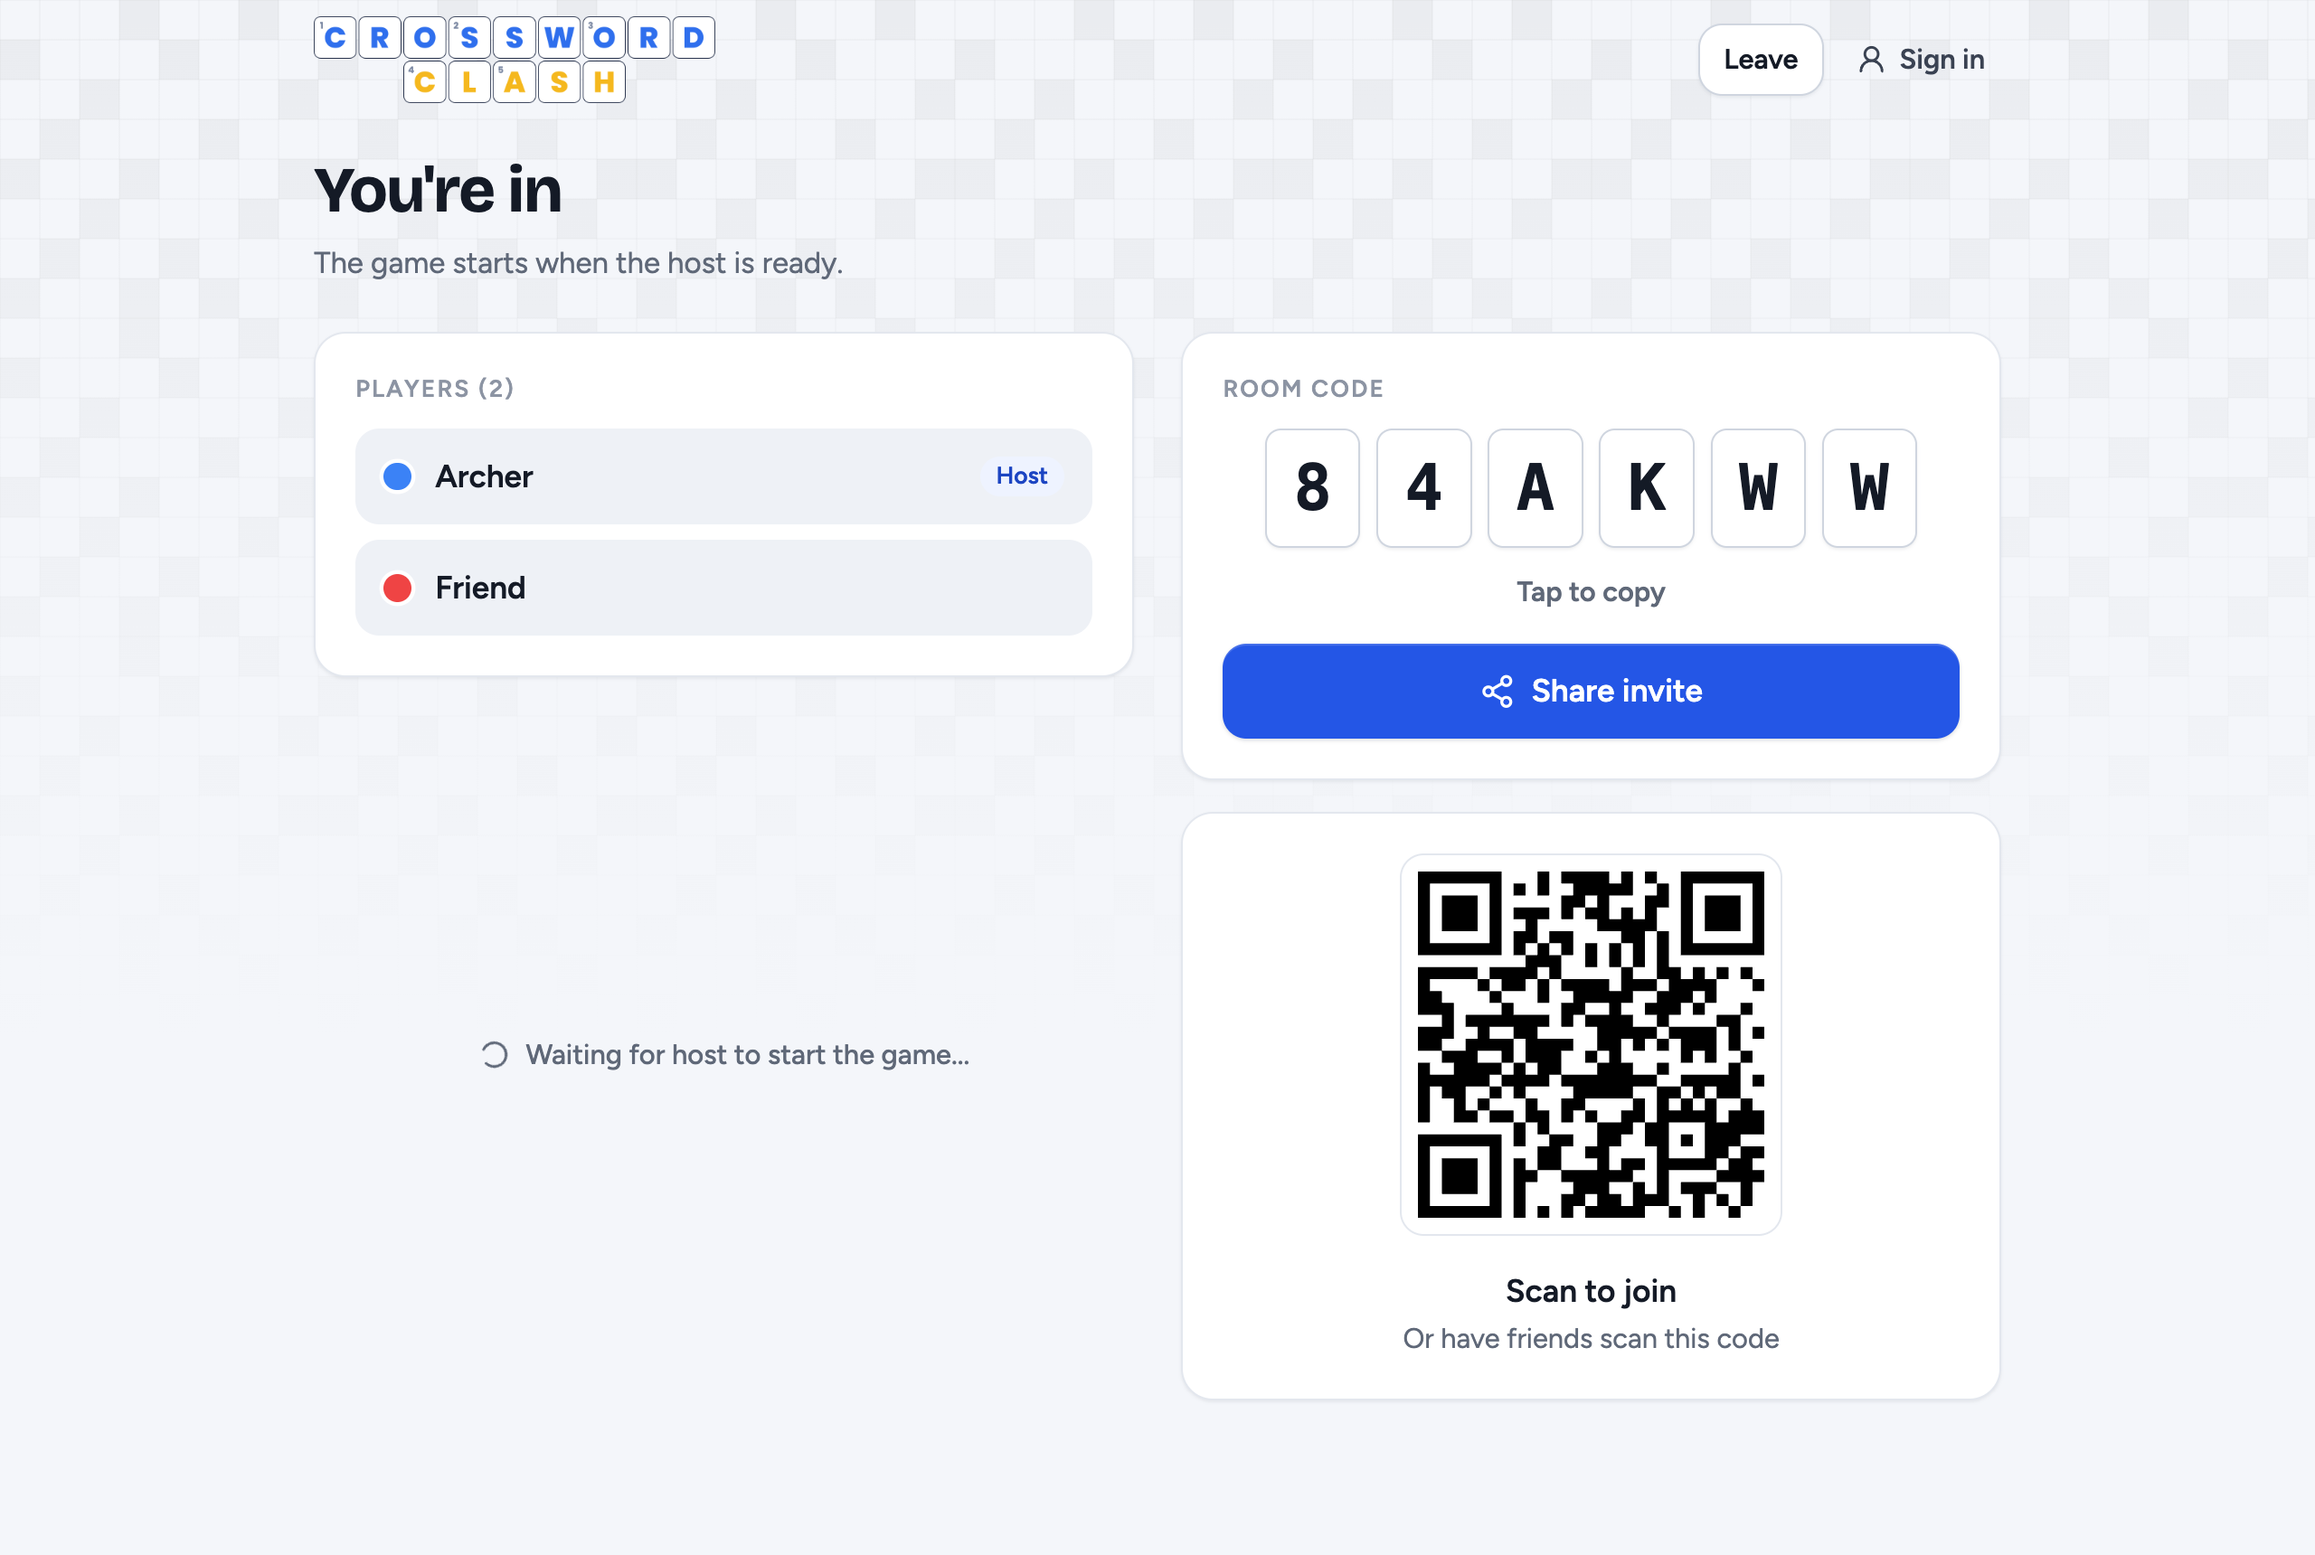
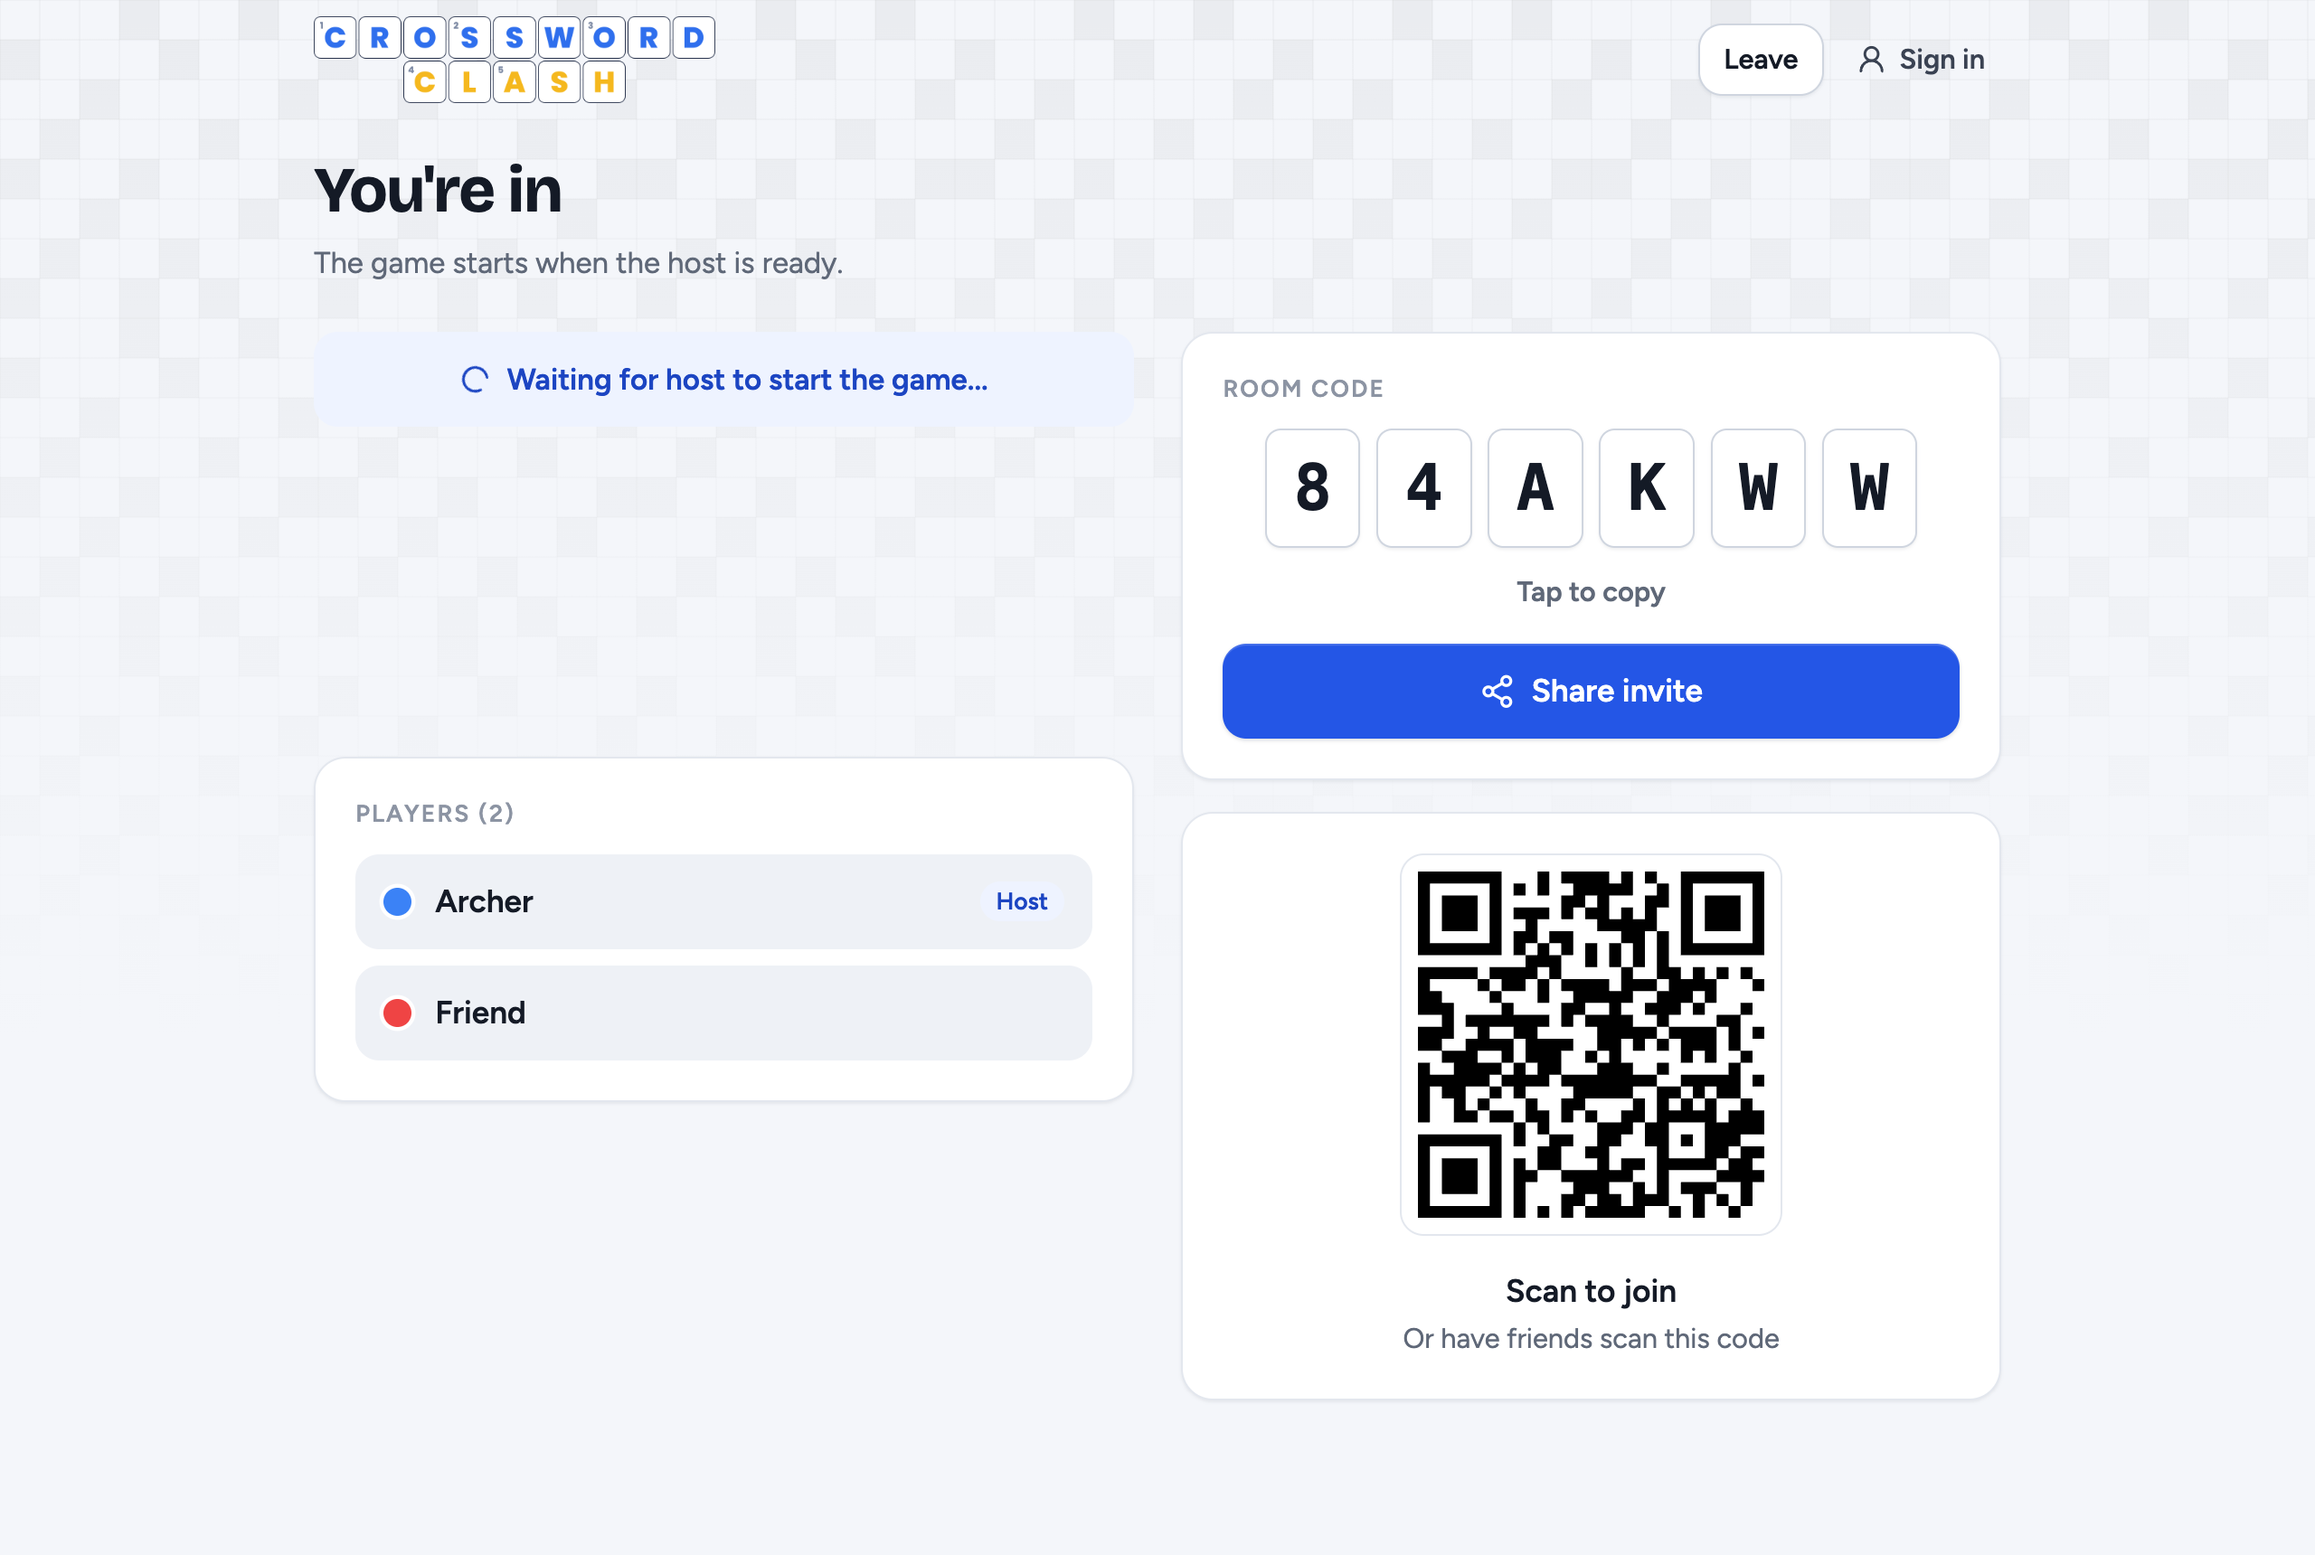
Lobby: Start or the waiting status leads, above the players
Andrew (2026-10-30): the "waiting for host" line is the most important
information on the page, and for the host the Start button belongs up
there too. Both now lead the lobby, right above the roster, and the sticky
bottom bar is gone — a joiner's status is a tinted banner, the host's
Start a full-width button. Order on a phone: Start / status, players, room
code + QR, settings. Desktop: the same in the left column, join column on
the right. Screenshots and CLAUDE.md updated; the DOM-order test covers
the new position for both host and joiner.

diff --git a/src/components/GameLobby/GameLobby.tsx b/src/components/GameLobby/GameLobby.tsx
@@ -78,9 +78,9 @@ export function GameLobby({ shareCode, players, isHost, onStartGame, onCloseRoom
     isHost &&
     ((raceMode !== undefined && onRaceModeChange) || (wrongAnswerTimeout !== undefined && onWrongAnswerTimeoutChange));
 
-  // DOM order is phone order: the roster leads, then how people get in, then
-  // the host's settings beside the Start button they gate. On desktop the
-  // join column moves to the right and spans the roster, settings and actions.
+  // DOM order is phone order: Start (host) or the waiting status (joiner), the
+  // roster, then how people get in, then the host's settings. On desktop the
+  // join column moves to the right and spans the left column's rows.
   const column = shareCode ? "lg:col-start-1" : "lg:col-span-2 lg:mx-auto lg:w-full lg:max-w-md";
   const joinRows = showSettings ? "lg:row-span-3" : "lg:row-span-2";
 
@@ -102,6 +102,24 @@ export function GameLobby({ shareCode, players, isHost, onStartGame, onCloseRoom
       subtitle={isHost ? t("lobby.shareInvite") : t("lobby.guestSubtitle")}
     >
       <div className="grid gap-4 lg:grid-cols-2 lg:items-start lg:gap-x-6">
+        {/* The most important line on the page leads (Andrew, 2026-10-30): the host's Start,
+            or a joiner's "waiting for the host" status. Right above the roster, never a bottom bar. */}
+        <div className={column}>
+          {isHost ? (
+            <Button size="lg" block onClick={onStartGame} disabled={needMore}>
+              {needMore ? t("lobby.needMorePlayers", { count: 2 - players.length }) : t("lobby.startGame")}
+            </Button>
+          ) : (
+            <p
+              role="status"
+              className="flex min-h-12 items-center justify-center gap-2 rounded-xl bg-brand-50 px-4 text-[15px] font-semibold text-brand-700"
+            >
+              <Loader2 className="size-4 animate-spin motion-reduce:animate-none" aria-hidden="true" />
+              {t("lobby.waitingForHost")}
+            </p>
+          )}
+        </div>
+
         {/* Who is here: first on the page, so a phone shows the roster above the fold. */}
         <section className={column}>
           <Card className="p-5">
@@ -194,7 +212,7 @@ export function GameLobby({ shareCode, players, isHost, onStartGame, onCloseRoom
           </section>
         )}
 
-        {/* The host's settings, right above the Start button they apply to. */}
+        {/* The host's settings, last: they are tweaked once, before Start. */}
         {showSettings && (
           <section className={column}>
             <Card className="p-5">
@@ -210,22 +228,6 @@ export function GameLobby({ shareCode, players, isHost, onStartGame, onCloseRoom
             </Card>
           </section>
         )}
-
-        {/* Actions: sticky to the bottom of the viewport on phones, inline on desktop. */}
-        <div
-          className={`sticky bottom-0 z-10 -mx-4 border-t border-line bg-canvas/90 px-4 pt-3 pb-[max(1rem,env(safe-area-inset-bottom))] backdrop-blur lg:static lg:border-0 lg:bg-transparent lg:p-0 lg:backdrop-blur-none ${shareCode ? "lg:mx-0" : ""} ${column}`}
-        >
-          {isHost ? (
-            <Button size="lg" block onClick={onStartGame} disabled={needMore}>
-              {needMore ? t("lobby.needMorePlayers", { count: 2 - players.length }) : t("lobby.startGame")}
-            </Button>
-          ) : (
-            <p className="flex min-h-12 items-center justify-center gap-2 text-sm font-medium text-muted" role="status">
-              <Loader2 className="size-4 animate-spin motion-reduce:animate-none" aria-hidden="true" />
-              {t("lobby.waitingForHost")}
-            </p>
-          )}
-        </div>
       </div>
     </FlowPage>
   );

diff --git a/src/components/GameLobby/GameLobby.test.tsx b/src/components/GameLobby/GameLobby.test.tsx
@@ -268,7 +268,7 @@ describe("GameLobby", () => {
       expect(screen.getByText("Host")).toBeDefined();
     });
 
-    it("lists the players before the room code, QR code and settings, so a phone shows the roster above the fold", () => {
+    it("leads with Start or the waiting status, then the players, then the room code, QR code and settings", () => {
       for (const isHost of [true, false]) {
         cleanup();
         render(
@@ -288,9 +288,12 @@ describe("GameLobby", () => {
         const follows = (node: Element) => Boolean(roster.compareDocumentPosition(node) & Node.DOCUMENT_POSITION_FOLLOWING);
         expect(follows(screen.getByText("Room code")), `room code after the roster (host: ${isHost})`).toBe(true);
         expect(follows(screen.getByTestId("qr-code")), `QR after the roster (host: ${isHost})`).toBe(true);
+        // The most important line leads: the host's Start, or a joiner's waiting status.
         if (isHost) {
           expect(follows(screen.getByText("Game settings")), "settings after the roster").toBe(true);
-          expect(follows(screen.getByText("Start Game")), "Start after the roster").toBe(true);
+          expect(follows(screen.getByText("Start Game")), "Start before the roster").toBe(false);
+        } else {
+          expect(follows(screen.getByRole("status")), "waiting status before the roster").toBe(false);
         }
       }
     });

diff --git a/CLAUDE.md b/CLAUDE.md
@@ -136,7 +136,7 @@ src/
     CrosswordGrid/  # Grid + Cell (container query font scaling) + keyboard nav + hidden mobile input
     ClueBar/        # MobileClueBar (prev/next word, direction toggle, active clue display)
     CluePanel/      # Clue list with active highlighting + strikethrough for completed words
-    GameLobby/      # GameLobby (player list first — DOM order is phone order, so the roster sits above the fold; then share code + QR, then the host's settings beside Start; on desktop the join column moves right and spans the rest; close room, non-host leave) + JoinGame (code input) + TimeoutSelector (wrong answer penalty presets)
+    GameLobby/      # GameLobby (DOM order is phone order: the host's Start button or a joiner's waiting status first — the most important line on the page — then the player list, then share code + QR, then the host's settings; no bottom bar; on desktop the join column moves right and spans the rest; close room, non-host leave) + JoinGame (code input) + TimeoutSelector (wrong answer penalty presets)
     Layout/         # GameLayout (responsive, mobile clue list flex-shrinks behind keyboard) + TVLayout (spectator with clue panel)
     PuzzleImporter/ # File upload/drag-and-drop
     TTSControls/    # TTSMuteButton + TTSSettingsModal (narrator engine + TTS engine + voice selectors)
@@ -270,7 +270,7 @@ VITE_SUPABASE_ANON_KEY=...
 - **CluePanel.test.tsx** (17 tests): Across/Down sections rendering, all clues rendered, active clue highlighting, clue click callback, strikethrough for completed clues (line-through + text-neutral-400), no strikethrough when absent/empty, partial completion, both directions, active+completed coexistence, completed clues still clickable
 - **Cell.test.tsx** (17 tests): blendOnWhite color math (alpha 0/1/0.12, opaque output), cell rendering (black cell, white cell, numbers, letters), text classes (text-black for letters, text-neutral-800 for numbers), background priority (selected > highlighted > playerColor > white), player color as opaque inline style, click handler
 - **useClueAnnouncer.test.ts** (8 tests): Initial mount skips announcements, new clue triggers speech, last-cell-in-word attribution, no re-announcement of previously completed clues, unknown-player fallback, 2/5s rate cap, disabled state still tracks completions to prevent later blast, null puzzle is a no-op
-- **GameLobby.test.tsx** (27 tests): QR code rendering/URL encoding, Close Room visibility/callback, host controls (Start Game enable/disable), non-host view, non-host leave button (visibility + callback), player list (and that it precedes the room code, QR and settings in DOM order for host and joiner), share code display, timeout selector visibility/callback. Uses `@testing-library/react` with per-file `jsdom` environment.
+- **GameLobby.test.tsx** (27 tests): QR code rendering/URL encoding, Close Room visibility/callback, host controls (Start Game enable/disable), non-host view, non-host leave button (visibility + callback), player list (and the DOM order Start/status → players → room code, QR, settings for host and joiner), share code display, timeout selector visibility/callback. Uses `@testing-library/react` with per-file `jsdom` environment.
 - **GameLobby/JoinGame.test.tsx** (2 tests): the code field has focus on arrival; a link that filled the code hands the focus to the name field
 - **TimeoutSelector.test.tsx** (9 tests): All presets rendered, heading, selected option highlighting, unselected styles, onChange callback, dark/light variant styles
 - **LockoutOverlay.test.tsx** (7 tests): Renders nothing when 0 or past, shows countdown, ticks down over time, disappears on expiry, lockout-pulse class, pointer-events-none
